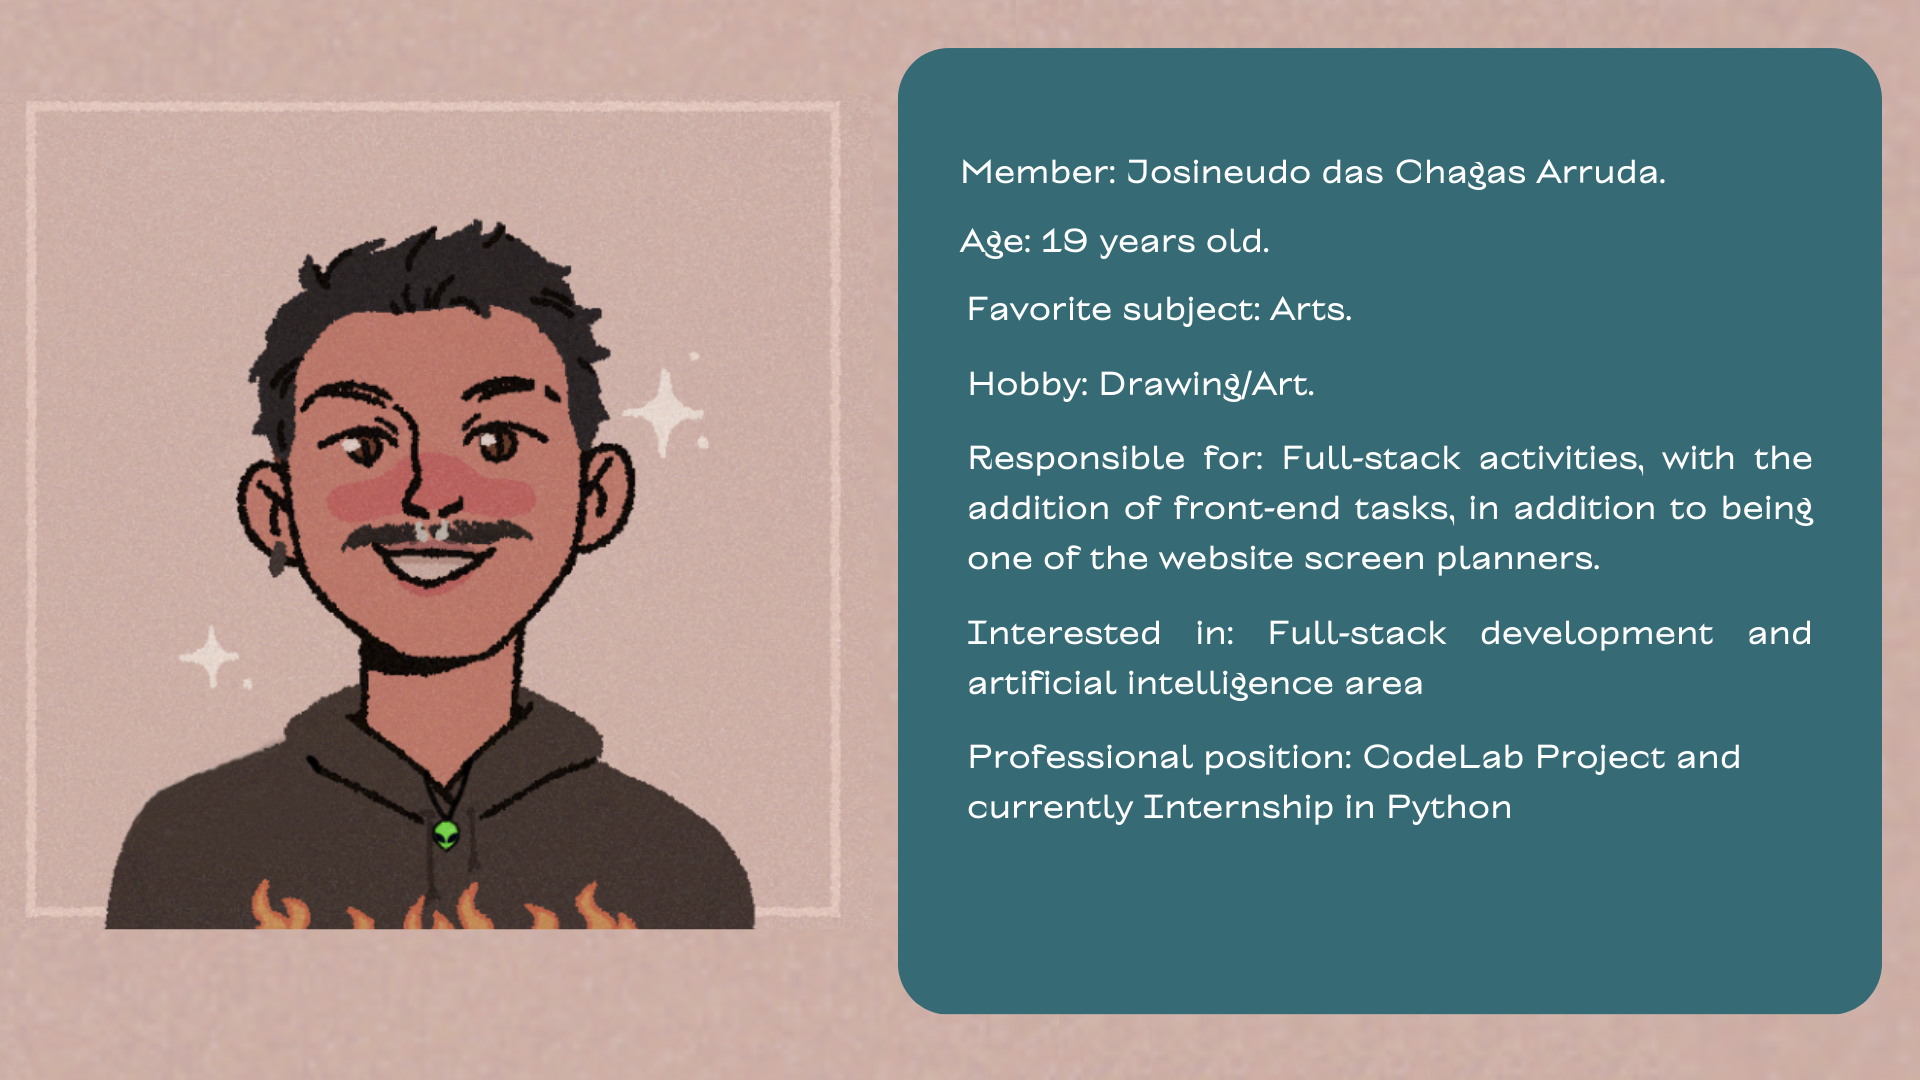
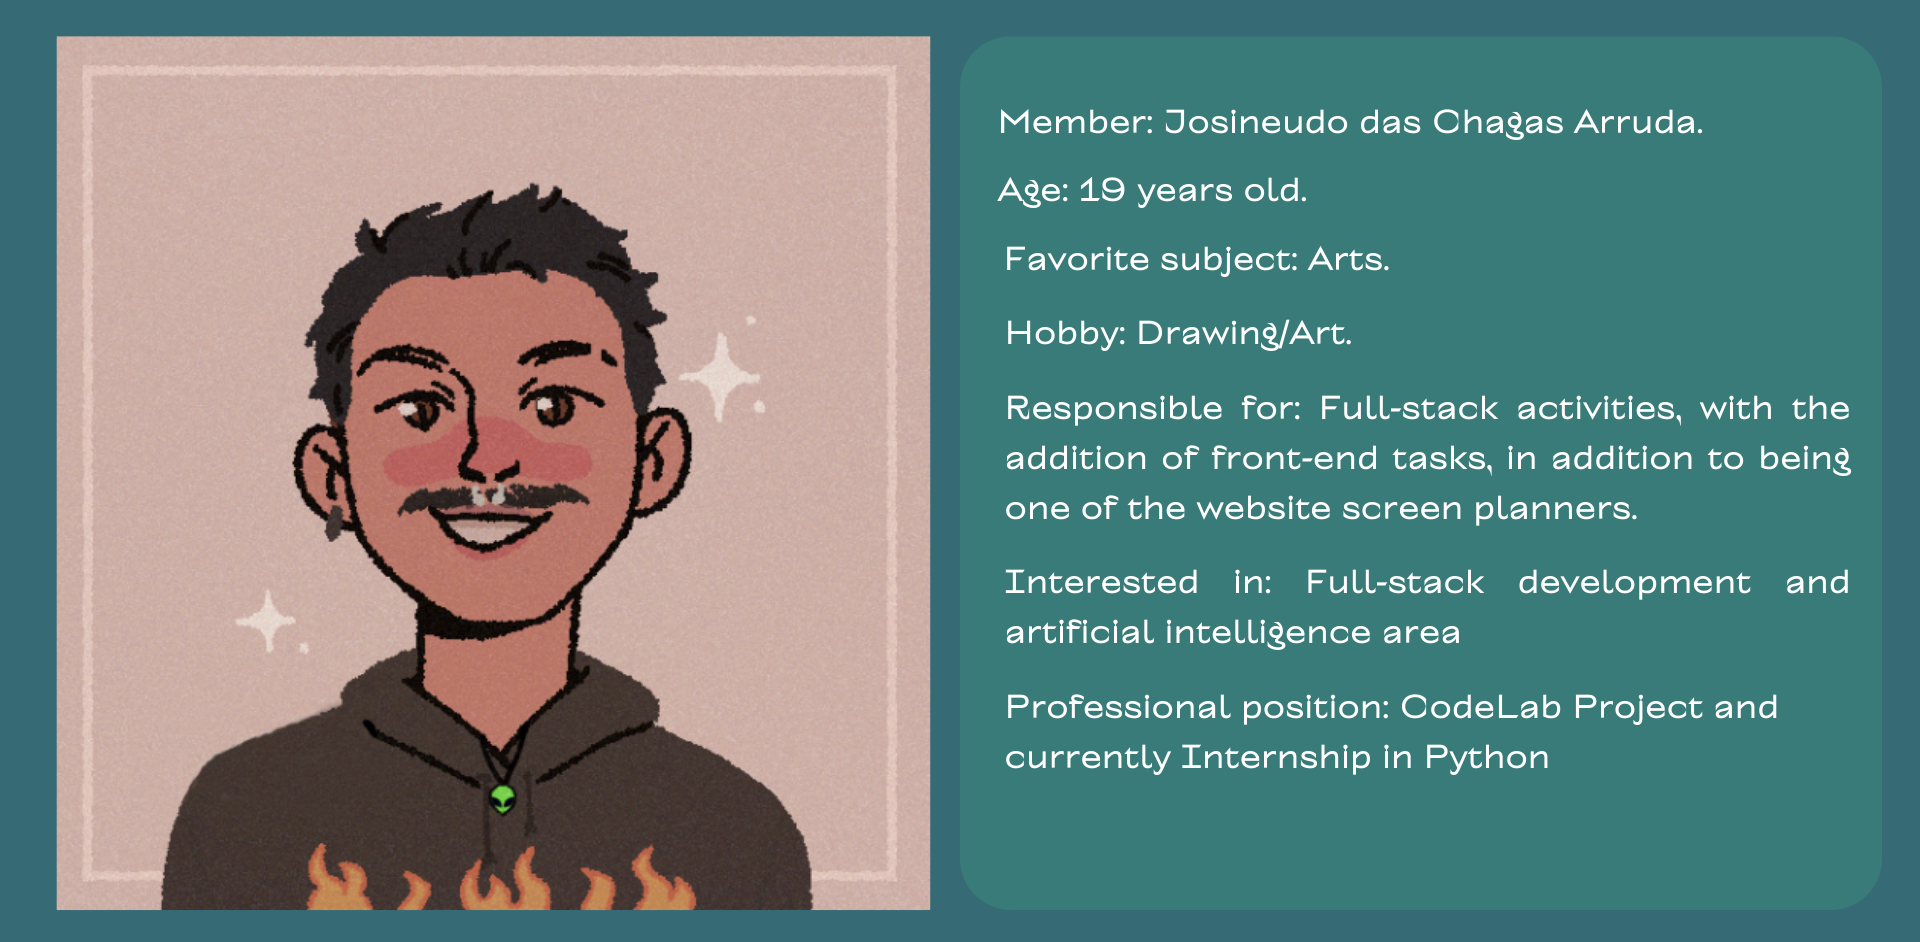
add: add about page josineudo style

diff --git a/Desenvolvimento/ada/templates/about.html b/Desenvolvimento/ada/templates/about.html
@@ -40,7 +40,6 @@
 
         .gallery img {
             width: 100%;
-            margin-top: 20px;
         }
 
     </style>
@@ -57,7 +56,7 @@
                 <div><img class="w-100" src="{% static 'images/about/about-pt.png' %}"></div>
             {% endif %}
 
-            <h3>Equipe</h3>
+            <h3>{% trans "Equipe" %}</h3>
 
             <div class="gallery">
                 {% if LANGUAGE_CODE == "en" %}

diff --git a/Desenvolvimento/ada/templates/staff/base.html b/Desenvolvimento/ada/templates/staff/base.html
@@ -31,6 +31,10 @@
   <script src="https://cdn.datatables.net/v/dt/jq-3.6.0/dt-1.13.4/rr-1.3.3/datatables.min.js"></script>
 
   <link rel="stylesheet" href="https://cdnjs.cloudflare.com/ajax/libs/font-awesome/6.0.0-beta3/css/all.min.css">
+
+  <style>
+   
+  </style>
   {% block head %}
 
   {% endblock %}
